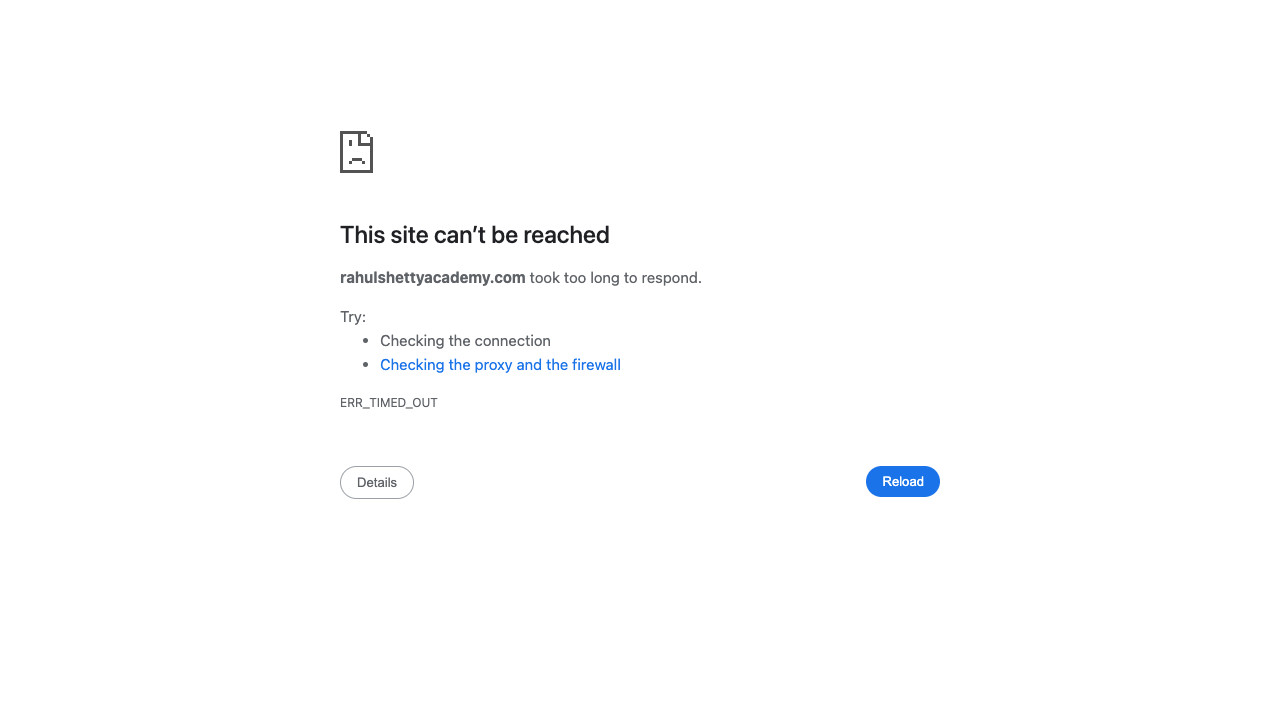
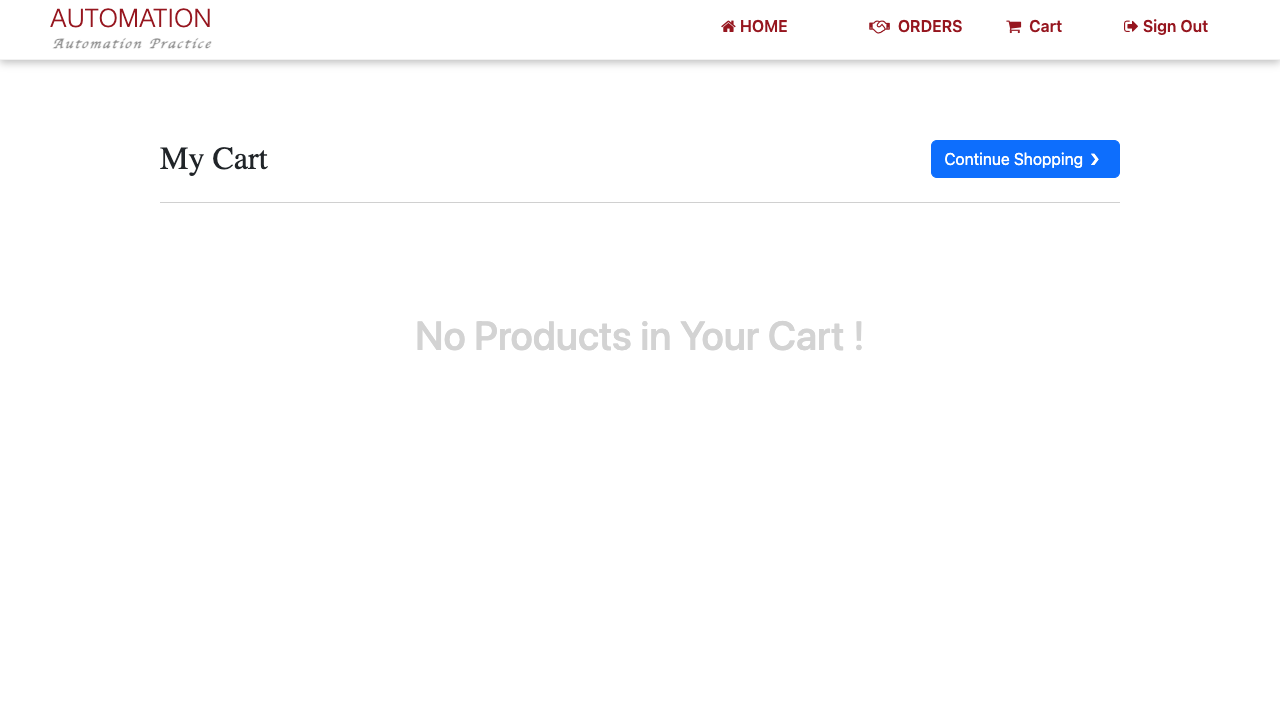
update FW

diff --git a/e2e/example.spec.ts b/e2e/example.spec.ts
@@ -1,0 +1,18 @@
+import { test, expect } from '@playwright/test';
+
+test('has title', async ({ page }) => {
+  await page.goto('https://playwright.dev/');
+
+  // Expect a title "to contain" a substring.
+  await expect(page).toHaveTitle(/Playwright/);
+});
+
+test('get started link', async ({ page }) => {
+  await page.goto('https://playwright.dev/');
+
+  // Click the get started link.
+  await page.getByRole('link', { name: 'Get started' }).click();
+
+  // Expects page to have a heading with the name of Installation.
+  await expect(page.getByRole('heading', { name: 'Installation' })).toBeVisible();
+});

diff --git a/tests/llc.spec.ts b/tests/llc.spec.ts
@@ -11,6 +11,7 @@ test('Playwright Special locators', async ({ page }) => {
     await page.getByText("Success! The Form has been submitted successfully!.").isVisible();
     await page.getByRole("link",{name : "Shop"}).click();
     await page.locator("app-card").filter({hasText: 'Nokia Edge'}).getByRole("button").click();
+    await page.frameLocator("#endregion").locator("#usernam").fill("wrer")
 
     //locator(css)
 

diff --git a/src/step-definitions/ClientApp.ts b/src/step-definitions/ClientApp.ts
@@ -2,6 +2,7 @@ import {Given, When, Then, Before, After} from "@cucumber/cucumber";
 import {expect } from "@playwright/test";
 import { page } from "../support/hooks";
 let orderId:any;
+
 Given('a login to Ecommerce application with {string} and {string}', async function (username, password) {
      const loginPage = this.poManager.getLoginPage(page);
  

diff --git a/src/pages/DashboardPage.ts b/src/pages/DashboardPage.ts
@@ -16,6 +16,7 @@ constructor(page:Page)
     this.productsText = page.locator(".card-body b");
     this.cart =  page.locator("button[routerlink='/dashboard/cart']");
     this.orders = page.locator("button[routerlink*='myorders']");
+   
 
 }
 

diff --git a/src/support/hooks.ts b/src/support/hooks.ts
@@ -5,6 +5,7 @@ setDefaultTimeout(60 * 1000);
 let browser:Browser;
 let context: BrowserContext;
 let page:Page;
+
 Before(async function(){
   browser = await chromium.launch
         ({ 

diff --git a/tests/WebAPIPart2.spec.ts b/tests/WebAPIPart2.spec.ts
@@ -20,6 +20,8 @@ test.beforeAll(async ({ browser }) => {
 
 })
 
+
+
 test('@QA Client App login', async () => {
     //fail
     const email = "rahulshetty@gmail.com";

diff --git a/tests/test-1.spec.ts b/tests/test-1.spec.ts
@@ -1,0 +1,5 @@
+import { test, expect } from '@playwright/test';
+
+test('test', async ({ page }) => {
+  // Recording...
+});
